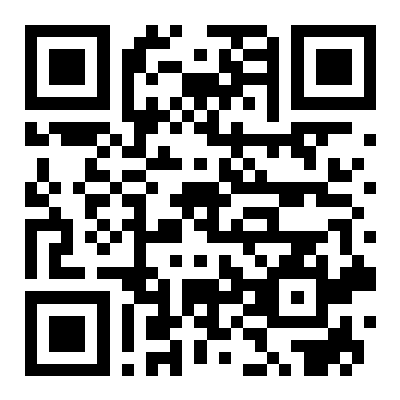
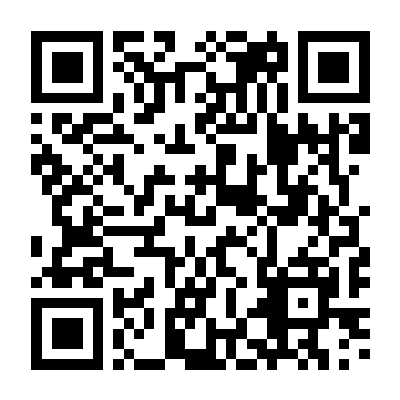
docs:add src=portfolio to echo interview url

diff --git a/echo-interview_page.html b/echo-interview_page.html
@@ -411,7 +411,7 @@
       <div class="flex flex-col sm:flex-row sm:items-center gap-5 sm:gap-8">
         <div>
           <div class="text-[10px] text-slate-400 uppercase tracking-[0.18em] font-semibold mb-1.5">Try it now</div>
-          <a href="https://echo-interview.online" class="text-[20px] font-mono font-semibold text-indigo-600 hover:text-indigo-700">echo-interview.online</a>
+          <a href=" https://echo-interview.online/?src=portfolio " class="text-[20px] font-mono font-semibold text-indigo-600 hover:text-indigo-700">echo-interview.online</a>
         </div>
         <div class="hidden sm:block w-px h-10 bg-slate-200"></div>
         <div>
